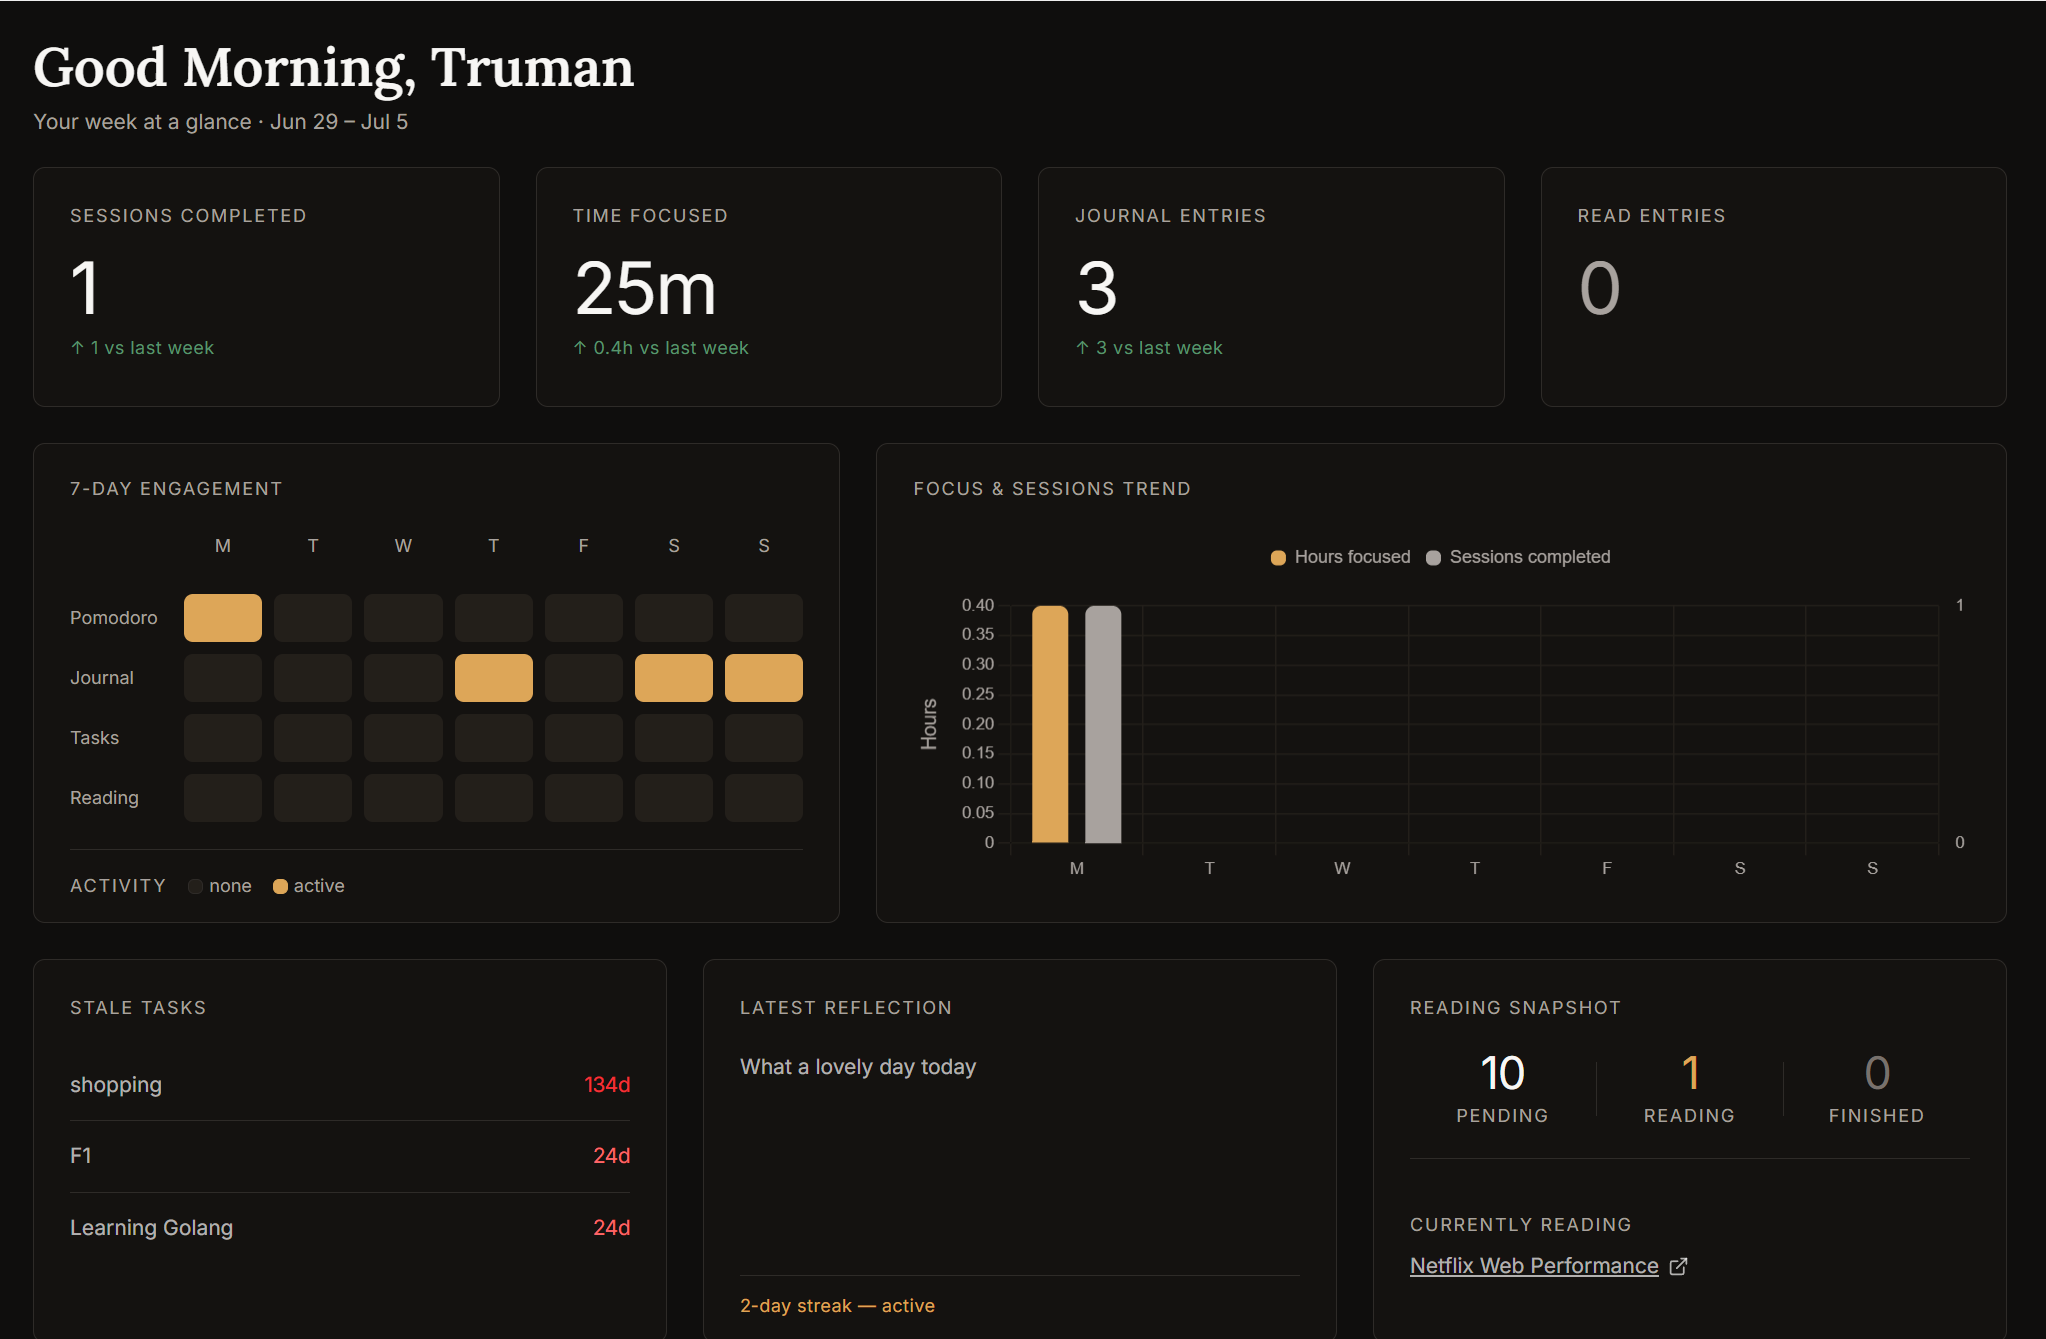
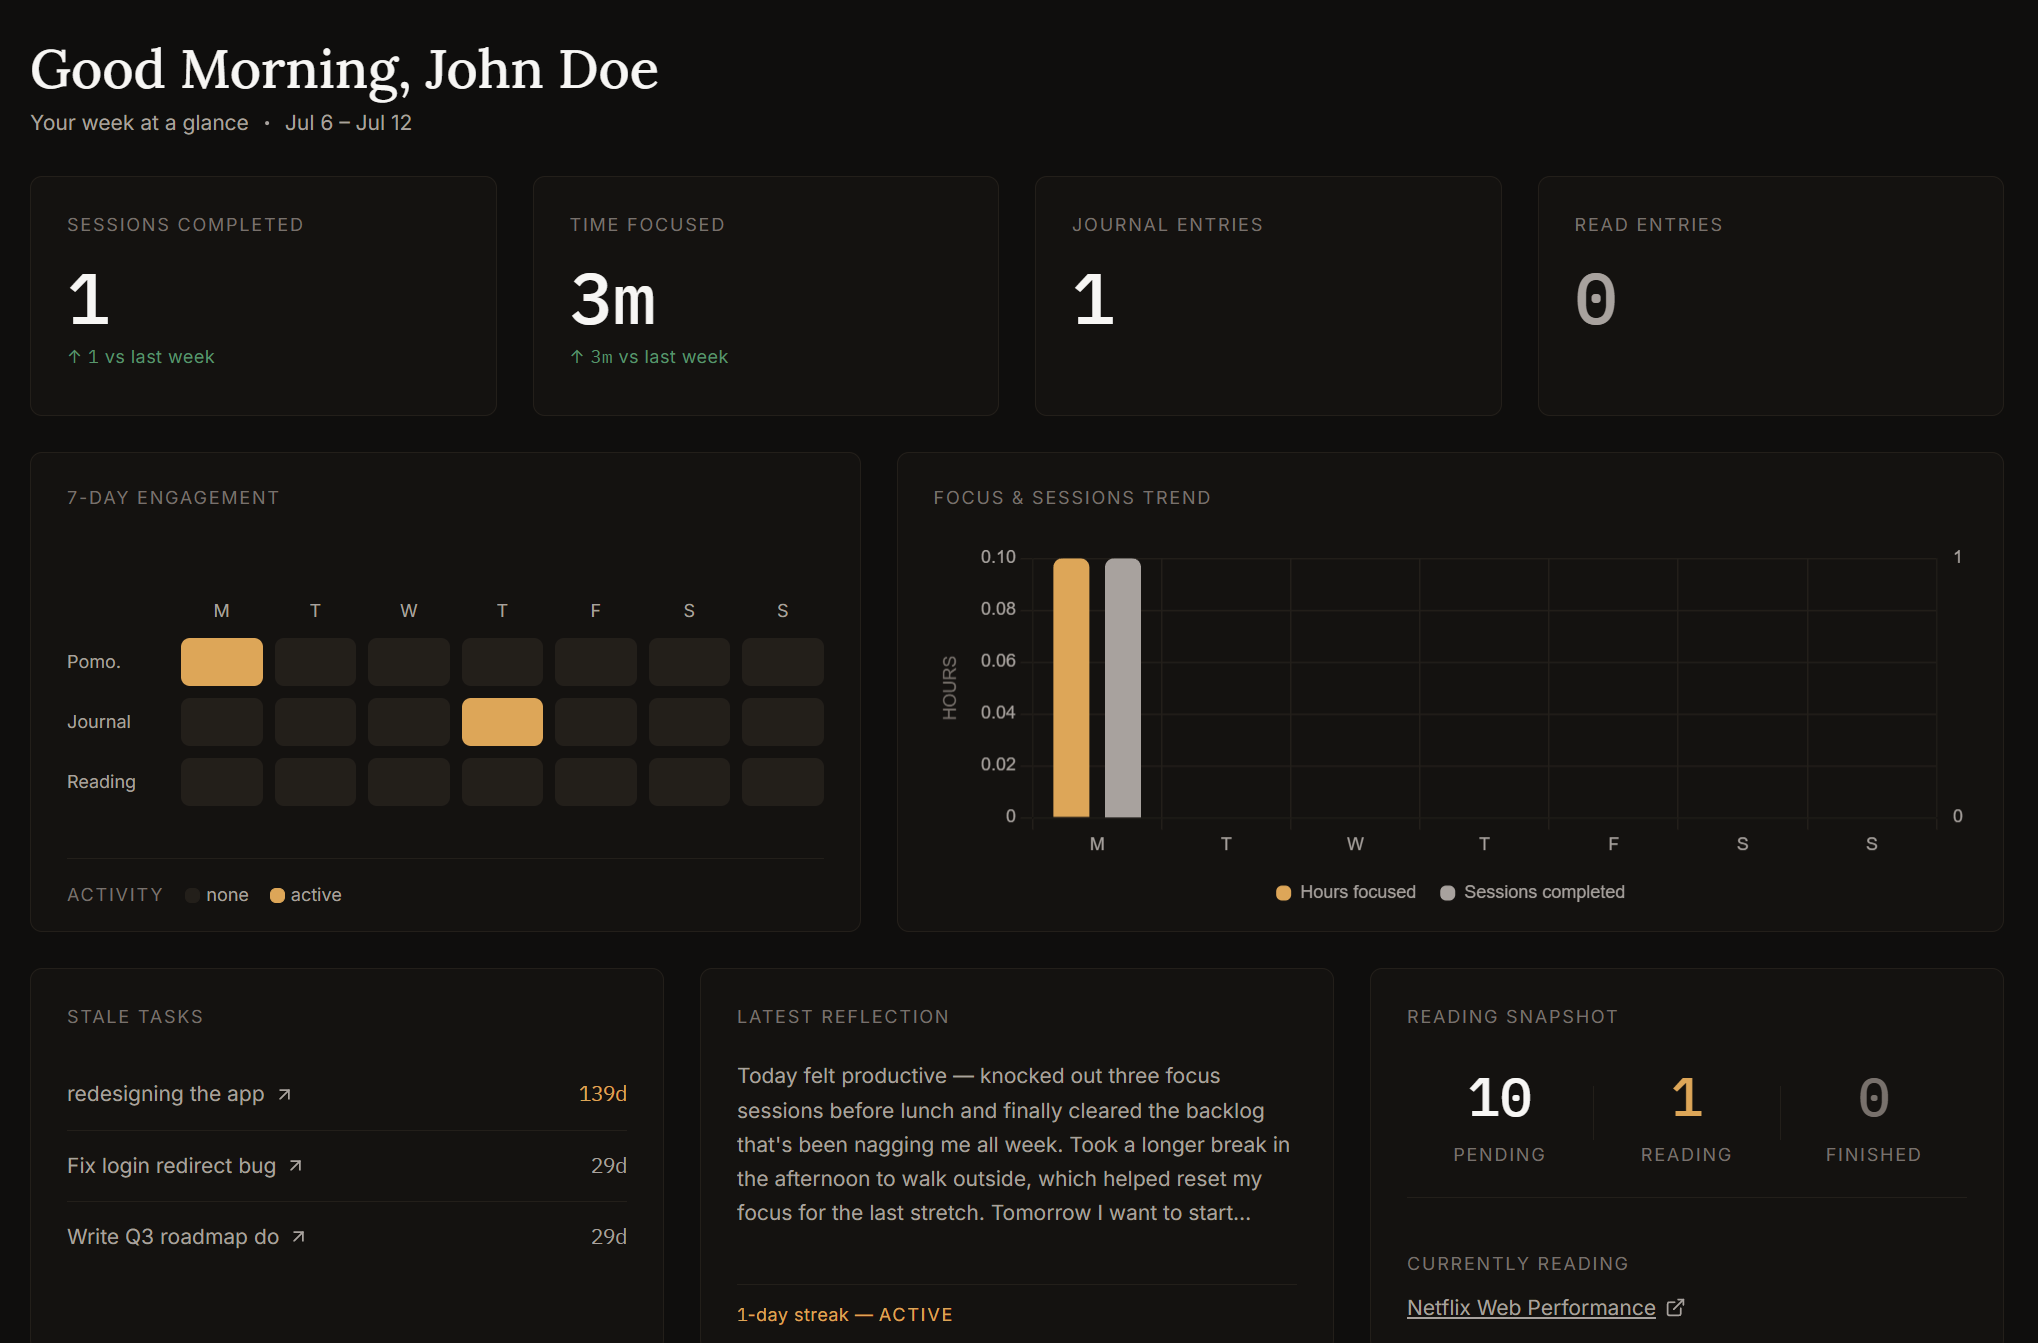
ui : improve landing page

diff --git a/src/features/home/components/Banner/index.jsx b/src/features/home/components/Banner/index.jsx
@@ -1,66 +1,71 @@
 import React from "react";
 import { Link } from "react-router";
-import { Button } from "@/shared/ui";
+import { Button, Reveal } from "@/shared/ui";
 import { DEFAULT_NAV_ROUTE } from "@/shared/constants";
-import Metrics from "@/features/home/components/Metrics";
 import dashboardLight from "@/assets/images/dashboard-light.png";
 import dashboardDark from "@/assets/images/dashboard-dark.png";
 
 const Banner = () => {
   return (
-    <div className="w-full max-w-7xl mx-auto px-6 lg:px-8 xl:px-0 pt-16 lg:pt-24 pb-10 lg:pb-14 flex flex-col gap-16 lg:gap-24">
-      <div className="flex flex-col lg:flex-row items-start gap-24">
-        <div className="flex-2 flex flex-col gap-6 lg:gap-8">
-          <div className="flex flex-col gap-6">
-            <span className="text-label inline-flex w-fit items-center gap-2 rounded-lg border border-border px-4 py-1.5">
-              <span className="h-1.5 w-1.5 rounded-full bg-primary" />
-              Personal Productivity
-            </span>
-            <h1 className="heading-1">
-              One place to focus,
-              <br />
-              <span className="italic text-primary">reflect, and grow</span>
-            </h1>
-          </div>
-          <p className="body-base max-w-xl text-muted-foreground">
-            Kaizen ties together your focus sessions, journal, reading list, and
-            task tracking into a single quiet view — so you can see how your
-            time is actually being spent.
-          </p>
+    <div className="w-full max-w-7xl mx-auto h-screen flex items-center justify-center">
+      <div className="flex h-[70%] gap-16 items-center justify-center">
+        <div className="flex-2 flex flex-col gap-6">
+          <Reveal delay={0}>
+            <div className="flex flex-col gap-6">
+              <span className="text-label inline-flex w-fit items-center gap-2 rounded-lg border border-border px-4 py-1.5">
+                <span className="h-1.5 w-1.5 rounded-full bg-primary" />
+                Personal Productivity
+              </span>
+              <h1 className="heading-1">
+                One place to <br /> focus, <br />
+                <span className="italic text-primary">
+                  reflect, and <br /> grow
+                </span>
+              </h1>
+            </div>
+          </Reveal>
+          <Reveal delay={100}>
+            <p className="body-base max-w-xl text-muted-foreground">
+              Kaizen ties together your focus sessions, journal, reading list,
+              and task tracking into a single quiet view — so you can see how
+              your time is actually being spent.
+            </p>
+          </Reveal>
 
-          <div className="flex items-center gap-6 mt-2">
-            <Link to={DEFAULT_NAV_ROUTE}>
-              <Button className="shadow-none">Get started</Button>
-            </Link>
-            <a href="#about">
-              <Button variant="outline" className="shadow-none">
-                See what&apos;s inside
-              </Button>
-            </a>
-          </div>
+          <Reveal delay={200}>
+            <div className="flex items-center gap-6 mt-2">
+              <Link to={DEFAULT_NAV_ROUTE}>
+                <Button className="shadow-none">Get started</Button>
+              </Link>
+              <a href="#about">
+                <Button variant="outline" className="shadow-none">
+                  See what&apos;s inside
+                </Button>
+              </a>
+            </div>
+          </Reveal>
         </div>
-        <div className="hidden lg:flex flex-3 justify-end lg:mt-10 xl:mt-12">
-          <DashboardPreview />
+        <div className="flex-3">
+          <Reveal delay={150} className="relative">
+            <div
+              aria-hidden="true"
+              className="absolute -inset-x-4 -inset-y-6 -z-10 rounded-full bg-primary/5 blur-[80px]"
+            />
+            <div className="rounded-lg border border-border overflow-hidden shadow-sm p-4 bg-background">
+              <img
+                src={dashboardLight}
+                alt="Kaizen dashboard"
+                className="block dark:hidden w-full h-auto -mt-0.5"
+              />
+              <img
+                src={dashboardDark}
+                alt="Kaizen dashboard"
+                className="hidden dark:block w-full h-auto -mt-0.5"
+              />
+            </div>
+          </Reveal>
         </div>
       </div>
-      <Metrics />
-    </div>
-  );
-};
-
-const DashboardPreview = () => {
-  return (
-    <div className="w-full h-full rounded-lg border border-border overflow-hidden shadow-sm px-4 py-6">
-      <img
-        src={dashboardLight}
-        alt="Kaizen dashboard"
-        className="block dark:hidden w-full h-auto -mt-0.5"
-      />
-      <img
-        src={dashboardDark}
-        alt="Kaizen dashboard"
-        className="hidden dark:block w-full h-auto -mt-0.5"
-      />
     </div>
   );
 };

diff --git a/src/features/home/components/Philosophy/index.jsx b/src/features/home/components/Philosophy/index.jsx
@@ -1,5 +1,6 @@
 import React from "react";
 import Section from "@/features/home/components/Section";
+import { Reveal } from "@/shared/ui";
 import { PHILOSOPHY_ITEMS } from "@/features/home/constants";
 
 const Philosophy = () => {
@@ -15,9 +16,10 @@ const Philosophy = () => {
       }
     >
       <div className="grid grid-cols-1 md:grid-cols-3 rounded-lg border border-border divide-y divide-x divide-border overflow-hidden">
-        {PHILOSOPHY_ITEMS.map((item) => (
-          <div
+        {PHILOSOPHY_ITEMS.map((item, index) => (
+          <Reveal
             key={item.key}
+            delay={index * 100}
             className="flex flex-col gap-6 bg-card p-6 md:p-8"
           >
             <span className="heading-6 italic text-subtle-foreground">
@@ -27,7 +29,7 @@ const Philosophy = () => {
               <h3 className="heading-6">{item.title}</h3>
               <p className="body-base">{item.description}</p>
             </div>
-          </div>
+          </Reveal>
         ))}
       </div>
     </Section>

diff --git a/src/shared/ui/reveal/index.tsx b/src/shared/ui/reveal/index.tsx
@@ -1,0 +1,35 @@
+import type { ElementType, ReactNode } from "react";
+import { cn } from "@/shared/lib/utils";
+import useRevealOnScroll from "@/shared/hooks/useRevealOnScroll";
+
+interface RevealProps {
+  children: ReactNode;
+  className?: string;
+  delay?: number;
+  as?: ElementType;
+}
+
+export const Reveal = ({
+  children,
+  className,
+  delay = 0,
+  as: Tag = "div",
+}: RevealProps) => {
+  const { ref, isVisible } = useRevealOnScroll();
+
+  return (
+    <Tag
+      ref={ref}
+      style={{ transitionDelay: isVisible ? `${delay}ms` : "0ms" }}
+      className={cn(
+        "transition-all duration-700 ease-out motion-reduce:transition-none motion-reduce:transform-none",
+        isVisible
+          ? "opacity-100 translate-y-0"
+          : "opacity-0 translate-y-6",
+        className,
+      )}
+    >
+      {children}
+    </Tag>
+  );
+};

diff --git a/src/shared/hooks/useRevealOnScroll.ts b/src/shared/hooks/useRevealOnScroll.ts
@@ -1,0 +1,33 @@
+import { useEffect, useRef, useState } from "react";
+
+const useRevealOnScroll = ({ threshold = 0.15 } = {}) => {
+  const ref = useRef(null);
+  const [isVisible, setIsVisible] = useState(false);
+
+  useEffect(() => {
+    const node = ref.current;
+    if (!node) return undefined;
+
+    if (typeof IntersectionObserver === "undefined") {
+      setIsVisible(true);
+      return undefined;
+    }
+
+    const observer = new IntersectionObserver(
+      ([entry]) => {
+        if (entry.isIntersecting) {
+          setIsVisible(true);
+          observer.disconnect();
+        }
+      },
+      { threshold },
+    );
+
+    observer.observe(node);
+    return () => observer.disconnect();
+  }, [threshold]);
+
+  return { ref, isVisible };
+};
+
+export default useRevealOnScroll;

diff --git a/src/features/home/pages/Home/index.jsx b/src/features/home/pages/Home/index.jsx
@@ -2,6 +2,7 @@ import React from "react";
 import Banner from "@/features/home/components/Banner";
 import About from "@/features/home/components/About";
 import Philosophy from "@/features/home/components/Philosophy";
+import { Separator } from "@/shared/ui";
 import { BROWSER_TAB_TITLES } from "@/shared/constants";
 import useDocumentTitle from "@/shared/hooks/useDocumentTitle";
 
@@ -10,8 +11,11 @@ const Home = () => {
   return (
     <div className="flex flex-col">
       <Banner />
+      <Separator className="max-w-6xl" />
       <About />
+      <Separator className="max-w-6xl" />
       <Philosophy />
+      <Separator className="max-w-6xl" />
     </div>
   );
 };

diff --git a/src/features/home/components/About/index.jsx b/src/features/home/components/About/index.jsx
@@ -1,5 +1,6 @@
 import React from "react";
 import Section from "@/features/home/components/Section";
+import { Reveal } from "@/shared/ui";
 import { ABOUT_CARDS } from "@/features/home/constants";
 
 const About = () => {
@@ -17,7 +18,9 @@ const About = () => {
     >
       <div className="grid grid-cols-1 md:grid-cols-2 gap-4 md:gap-6">
         {ABOUT_CARDS.map((card, index) => (
-          <AboutCard key={card.key} index={index} {...card} />
+          <Reveal key={card.key} delay={index * 100}>
+            <AboutCard index={index} {...card} />
+          </Reveal>
         ))}
       </div>
     </Section>

diff --git a/src/features/home/components/Header/index.jsx b/src/features/home/components/Header/index.jsx
@@ -8,7 +8,7 @@ const HeaderMain = () => {
   const { user } = useAuthStore();
 
   return (
-    <header className="sticky top-0 inset-x-0 z-50 bg-background border-b border-border/50">
+    <header className="fixed top-0 inset-x-0 z-50 bg-background border-b border-border/50">
       <div className="flex justify-between items-center px-6 xl:px-0 py-4 xl:max-w-7xl mx-auto">
         <Logo link={true} className="text-primary" />
         <div className="flex items-center gap-4 xl:gap-6">

diff --git a/src/features/home/constants/index.ts b/src/features/home/constants/index.ts
@@ -76,18 +76,6 @@ export const ABOUT_CARDS = [
   },
 ];
 
-export const METRICS_ITEMS = [
-  { value: "4", label: "Integrated tools", key: "tools" },
-  { value: "0", label: "Streaks tracked", key: "streaks" },
-  { value: "∞", label: "Journal entries", key: "journal" },
-  {
-    value: "0",
-    label: "Distractions by design",
-    key: "notifications",
-    accent: true,
-  },
-];
-
 export const PHILOSOPHY_ITEMS = [
   {
     numeral: "I.",

diff --git a/src/shared/ui/index.ts b/src/shared/ui/index.ts
@@ -67,9 +67,11 @@ export {
   PopoverContent,
   PopoverAnchor,
 } from "./popover";
+export { Reveal } from "./reveal";
 export { ResponsiveDialog } from "./responsive-dialog";
 export type { ResponsiveDialogProps } from "./responsive-dialog";
 export { SectionedList } from "./sectioned-list";
+export { Separator } from "./separator";
 export type {
   SectionedListProps,
   SectionedListSection,

diff --git a/src/features/home/components/Section/index.jsx b/src/features/home/components/Section/index.jsx
@@ -6,7 +6,7 @@ const Section = ({ id, eyebrow, title, children, className }) => {
     <div
       id={id}
       className={cn(
-        "max-w-7xl mx-auto px-6 lg:px-8 xl:px-0 pt-10 lg:pt-14 pb-10 lg:pb-14 flex flex-col gap-12 lg:gap-16 border-t border-border",
+        "max-w-7xl mx-auto flex flex-col gap-12 lg:gap-16 py-24",
         className,
       )}
     >

diff --git a/src/features/home/components/Footer/index.jsx b/src/features/home/components/Footer/index.jsx
@@ -7,7 +7,7 @@ import { ThemeToggle } from "@/features/theme";
 
 const FooterMain = () => {
   return (
-    <footer className="pt-10 md:pt-14">
+    <footer className="pt-24">
       <div className="flex flex-col mx-auto">
         <div className="flex flex-col items-center text-center gap-6 pb-16 md:pb-20">
           <h2 className="heading-1 tracking-tight">

diff --git a/src/shared/ui/separator/index.jsx b/src/shared/ui/separator/index.jsx
@@ -1,0 +1,13 @@
+import React from "react";
+import { cn } from "@/shared/lib/utils";
+
+export const Separator = ({ className }) => {
+  return (
+    <hr
+      className={cn(
+        "w-full max-w-7xl mx-auto border-t border-border",
+        className,
+      )}
+    />
+  );
+};
